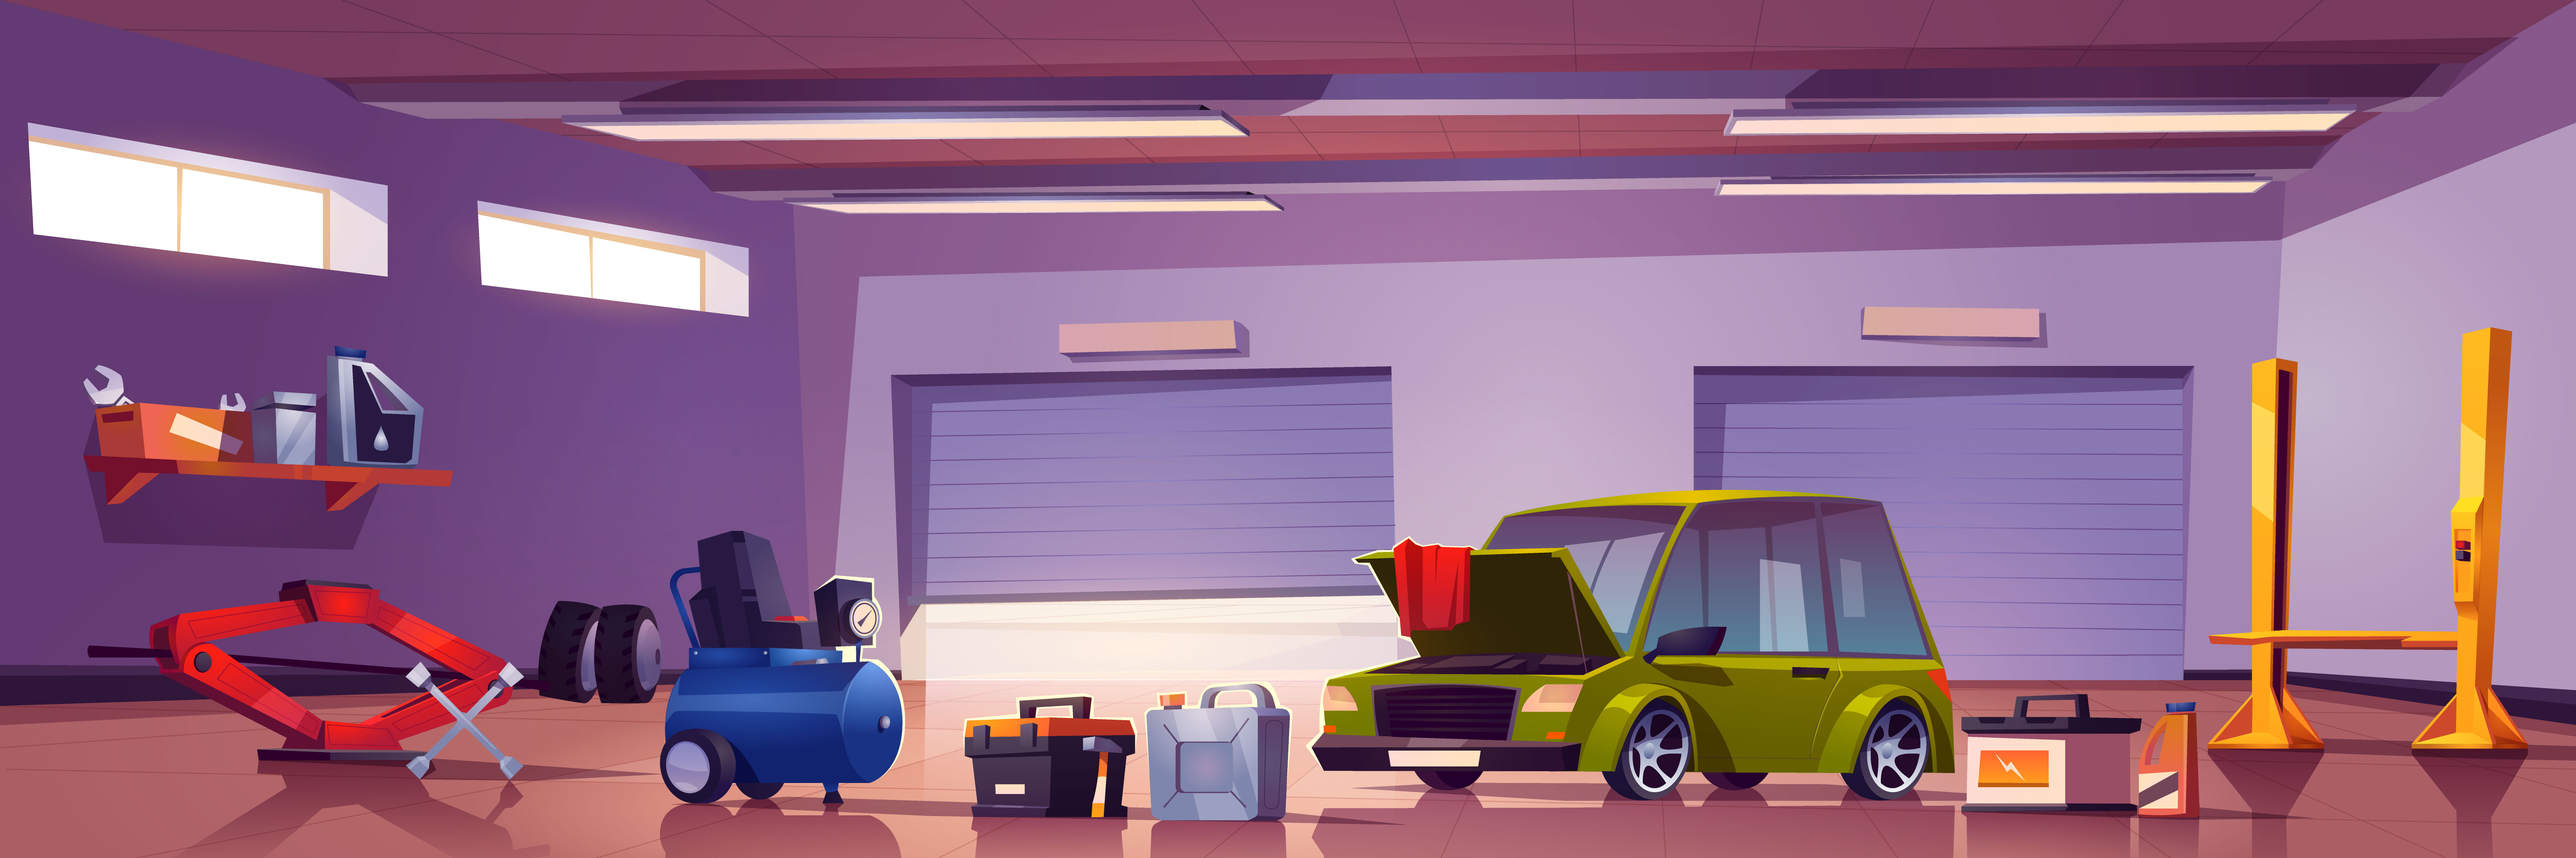
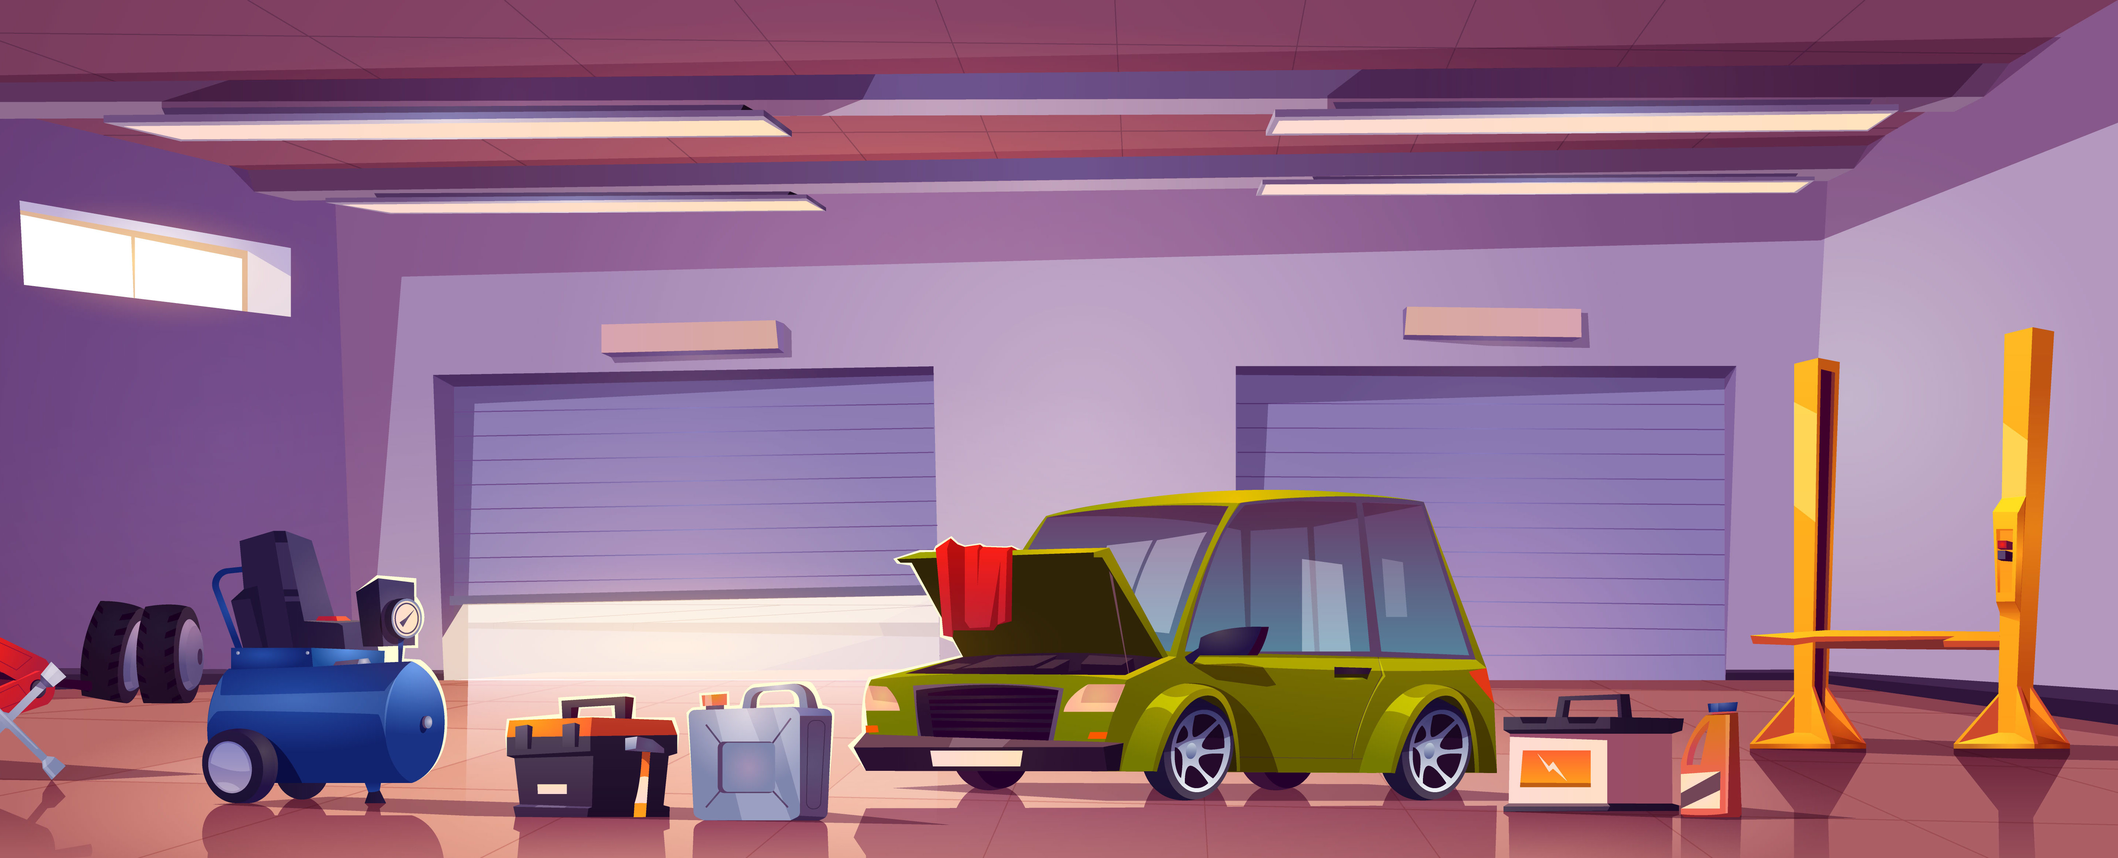
Modify background img

diff --git a/index.html b/index.html
@@ -25,8 +25,8 @@
     </nav>
 
     <div id="main">
-      <img src="src/images/background.svg" alt="background" class="background" draggable="false">
-      <!-- <img src="src/images/background2.jpg" alt="background" class="background" draggable="false"> -->
+      <!-- <img src="src/images/background.svg" alt="background" class="background" draggable="false"> -->
+      <img src="src/images/background.jpg" alt="background" class="background" draggable="false">
       <img src="src/images/green-car.png" alt="greencar" class="green-car" draggable="false">
       <img src="src/images/tools.png" alt="tools" class="tools" draggable="false">
       <img src="src/images/fuel.png" alt="fuel" class="fuel" draggable="false">

diff --git a/src/styles/index.css b/src/styles/index.css
@@ -74,14 +74,14 @@
   position: relative;
   height: 36vh;
   bottom: 40vh;
-  left: 50vw;
+  left: 38vw;
 }
 
 .tools {
   position: absolute;
   height: 19vh;
   top: 44vh;
-  left: 2vw;
+  left: 0;
   transform: rotate(5deg);
 }
 

diff --git a/src/styles/main.css b/src/styles/main.css
@@ -18,7 +18,7 @@
   z-index: 3;
   width: 1px;
   height: 160px;
-  right: 40vw;
+  right: 52vw;
   bottom: 20vh; }
 
 #smoke span {
